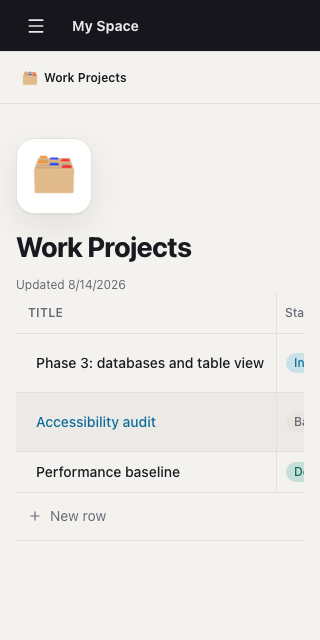
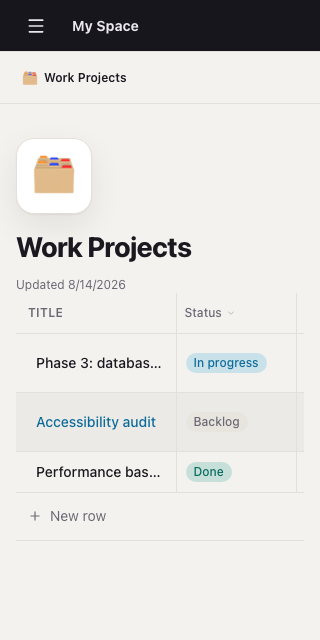
Fix DEF-041 and DEF-042: the table's overflow containment and its width
DEF-041 was not the flex-shrink problem it looked like. Tailwind's sr-only sets
position: absolute, and nothing between the accessibility span inside a checkbox
cell and the document root established a containing block, so the span painted
about 704px into document coordinates - outside the table's overflow-x-auto clip.
The document scrolled sideways at 320px while the table itself was contained. One
`relative` on that label fixes it; the min-w-0 on the page body is kept as a
guard for future wide content but was not the cause.

DEF-042 makes the 860px reading measure conditional on the page's kind. A page of
prose keeps it, because a long line hurts readability, and so does a row page,
whose blocks are prose. A database takes the available content width, because a
table's columns are its content: all seven of Work Projects' columns now fit at
1280x800 where five did before. The overflow-x-auto wrapper stays, so a database
with many more properties still scrolls inside itself rather than the document.

The mobile spec's five touch tests were guarded on isMobile, which is only true
under a device project that this suite does not have, so they always skipped -
coverage in the file and nothing in the run. They now set their own viewport and
click rather than tap, since none of them was asserting a touch event, and all
six tests in the file run.

diff --git a/e2e/specs/database-mobile.spec.ts b/e2e/specs/database-mobile.spec.ts
@@ -1,18 +1,19 @@
 /**
  * Phase 3 — mobile layout and touch target checks for the database surfaces.
  *
- * Mobile-specific tests (those that use tap() or check touch targets) run only in the
- * mobile-chrome project (Pixel 5, 393x851). They are skipped in the desktop chromium project via
- * test.skip({ isMobile }) — isMobile is true only when the project preset is a mobile device.
+ * All tests run in the chromium project. Tests that need the mobile responsive layout
+ * (hamburger menu, narrow column widths) set the viewport explicitly via
+ * page.setViewportSize at the start of their describe group — no mobile-device project
+ * is required.
  *
- * The 320px overflow test creates its own narrow viewport via page.setViewportSize and can run in
- * any project.
+ * tap() is not used here: the assertions are about layout and navigation, not touch
+ * events, so click() is the right driver and works in the desktop chromium project.
  */
 
 import { test, expect } from '@playwright/test';
 import { resetWorkspace } from '../fixtures/reset-workspace';
 
-test.describe('Database surfaces — 320px overflow', () => {
+test.describe('Database surfaces — 320px overflow (home page)', () => {
   test.beforeEach(async ({ page }) => {
     await resetWorkspace(page);
   });
@@ -35,12 +36,11 @@ test.describe('Database surfaces — 320px overflow', () => {
   });
 });
 
-test.describe('Database surfaces — mobile touch', () => {
-  // Skip this whole group in the desktop chromium project. isMobile is true only in the
-  // mobile-chrome project (Pixel 5 device preset).
-  test.skip(({ isMobile }) => !isMobile, 'Mobile-only tests — run in mobile-chrome project');
-
+test.describe('Database surfaces — mobile layout (393px viewport)', () => {
+  // Set a phone-width viewport for every test in this group so the responsive layout
+  // activates (hamburger menu, collapsed sidebar). 393x851 matches Pixel 5.
   test.beforeEach(async ({ page }) => {
+    await page.setViewportSize({ width: 393, height: 851 });
     await resetWorkspace(page);
   });
 
@@ -51,7 +51,7 @@ test.describe('Database surfaces — mobile touch', () => {
     // On mobile the sidebar is a drawer. The toggle has aria-label="Open navigation".
     const menuBtn = page.getByRole('button', { name: 'Open navigation' });
     await expect(menuBtn).toBeVisible();
-    await menuBtn.tap();
+    await menuBtn.click();
     await page.waitForLoadState('networkidle');
 
     // After opening, the sidebar should be visible.
@@ -59,22 +59,24 @@ test.describe('Database surfaces — mobile touch', () => {
     await expect(sidebar).toBeVisible();
   });
 
-  test('can create a database by tapping the "New database" button on mobile', async ({ page }) => {
+  test('can create a database by clicking the "New database" button on mobile', async ({
+    page,
+  }) => {
     await page.goto('/');
     await page.waitForLoadState('networkidle');
 
     // Open the sidebar drawer.
     const menuBtn = page.getByRole('button', { name: 'Open navigation' });
     await expect(menuBtn).toBeVisible();
-    await menuBtn.tap();
+    await menuBtn.click();
     await page.waitForLoadState('networkidle');
 
     const before = page.url().match(/\/page\/([^/]+)/)?.[1];
 
-    // Tap "New database" in the sidebar footer.
+    // Click "New database" in the sidebar footer.
     const newDbBtn = page.getByTestId('new-database-bottom');
     await expect(newDbBtn).toBeVisible();
-    await newDbBtn.tap();
+    await newDbBtn.click();
 
     await page.waitForURL(
       (url) => {
@@ -95,7 +97,7 @@ test.describe('Database surfaces — mobile touch', () => {
     // Open sidebar.
     const menuBtn = page.getByRole('button', { name: 'Open navigation' });
     await expect(menuBtn).toBeVisible();
-    await menuBtn.tap();
+    await menuBtn.click();
     await page.waitForLoadState('networkidle');
 
     const pageTitles = page.getByTestId('sidebar').getByTestId('page-row-title');
@@ -121,7 +123,7 @@ test.describe('Database surfaces — mobile touch', () => {
     // Open sidebar and navigate to Work Projects.
     const menuBtn = page.getByRole('button', { name: 'Open navigation' });
     await expect(menuBtn).toBeVisible();
-    await menuBtn.tap();
+    await menuBtn.click();
     await page.waitForLoadState('networkidle');
 
     const workProjectsLink = page
@@ -129,7 +131,7 @@ test.describe('Database surfaces — mobile touch', () => {
       .getByTestId('page-row-title')
       .filter({ hasText: 'Work Projects' });
     await expect(workProjectsLink).toBeVisible({ timeout: 5000 });
-    await workProjectsLink.tap();
+    await workProjectsLink.click();
     await page.waitForLoadState('networkidle');
 
     await expect(page.getByTestId('database-view')).toBeVisible();
@@ -140,14 +142,14 @@ test.describe('Database surfaces — mobile touch', () => {
     expect(box!.height).toBeGreaterThanOrEqual(48);
   });
 
-  test('no horizontal overflow at 320px via setViewportSize', async ({ page }) => {
+  test('no horizontal overflow at 320px on the Work Projects database page', async ({ page }) => {
     await page.goto('/');
     await page.waitForLoadState('networkidle');
 
     // Navigate to a database page so the table view is rendered.
     const menuBtn = page.getByRole('button', { name: 'Open navigation' });
     await expect(menuBtn).toBeVisible();
-    await menuBtn.tap();
+    await menuBtn.click();
     await page.waitForLoadState('networkidle');
 
     const workProjectsLink = page
@@ -155,7 +157,7 @@ test.describe('Database surfaces — mobile touch', () => {
       .getByTestId('page-row-title')
       .filter({ hasText: 'Work Projects' });
     await expect(workProjectsLink).toBeVisible({ timeout: 5000 });
-    await workProjectsLink.tap();
+    await workProjectsLink.click();
     await page.waitForLoadState('networkidle');
 
     await expect(page.getByTestId('database-view')).toBeVisible();
@@ -169,8 +171,7 @@ test.describe('Database surfaces — mobile touch', () => {
       return { scrollWidth, clientWidth, overflows: scrollWidth > clientWidth };
     });
 
-    // If the table overflows horizontally at 320px the overflow.x-auto wrapper should contain it
-    // — i.e. the document itself must not overflow.
+    // The table overflows its own wrapper but the document must not overflow.
     expect(overflow.overflows).toBe(false);
   });
 });

diff --git a/packages/frontend/src/components/DatabaseView/DatabaseView.tsx b/packages/frontend/src/components/DatabaseView/DatabaseView.tsx
@@ -370,15 +370,18 @@ export function DatabaseView({
       <table className="w-full border-collapse text-left">
         <thead>
           <tr className="border-b border-border">
-            {/* Title column */}
-            <th className="min-w-[180px] border-r border-border">
+            {/* Title column — min-w-[160px] balances readability and desktop fit (DEF-042):
+                 with 6 properties at 120px each, 1 title at 160px, and 40px actions the
+                 table minimum (920px) fits within the ~956px content area at 1280x800. */}
+            <th className="min-w-[160px] border-r border-border">
               <span className="block px-3 py-2 text-left text-xs font-semibold tracking-wide text-text-muted uppercase">
                 Title
               </span>
             </th>
-            {/* One header per property */}
+            {/* One header per property — min-w-[120px] instead of 140px to allow all seeded
+                 columns to fit at 1280x800 once the 860px prose cap is lifted (DEF-042). */}
             {properties.map((prop) => (
-              <th key={prop.id} className="min-w-[140px] border-r border-border">
+              <th key={prop.id} className="min-w-[120px] border-r border-border">
                 <PropertyHeaderMenu
                   property={prop}
                   onRename={(name) => onUpdateProperty(prop, { name })}
@@ -436,8 +439,9 @@ export function DatabaseView({
               data-testid="database-row"
               data-row-id={row.id}
             >
-              {/* Title cell */}
-              <td className="border-r border-border p-0">
+              {/* Title cell — max-w-0 prevents a long title from expanding the column beyond
+                   the TH's min-w-[160px]; overflow-hidden clips the render at the column edge. */}
+              <td className="max-w-0 overflow-hidden border-r border-border p-0">
                 <button
                   type="button"
                   className="flex min-h-[40px] w-full cursor-pointer items-center gap-2 px-3 py-2 text-left text-sm font-medium text-text hover:text-blue-fg"
@@ -450,11 +454,12 @@ export function DatabaseView({
                   <span className="truncate">{row.title}</span>
                 </button>
               </td>
-              {/* One cell per property */}
+              {/* One cell per property — max-w-0 prevents any cell (e.g. a URL column with a long
+                   value) from widening the column past the TH's min-w-[120px] (DEF-042). */}
               {properties.map((prop) => {
                 const cellValue = valuesMap.get(row.id)?.get(prop.id) ?? null;
                 return (
-                  <td key={prop.id} className="border-r border-border p-0">
+                  <td key={prop.id} className="max-w-0 overflow-hidden border-r border-border p-0">
                     <CellEditor
                       property={prop}
                       rowPageId={row.id}

diff --git a/packages/frontend/src/components/CellEditor/CellEditor.tsx b/packages/frontend/src/components/CellEditor/CellEditor.tsx
@@ -471,8 +471,11 @@ function CheckboxCell({
   onSave: (v: string | null) => void;
 }) {
   const checked = parseValue<boolean>(value) ?? false;
+  // relative makes this label the containing block for the sr-only span (position:absolute in
+  // Tailwind's sr-only), preventing it from escaping to the initial containing block and thus
+  // overflowing the document when the checkbox column is scrolled off the right edge of the viewport.
   return (
-    <label className="flex min-h-[40px] cursor-pointer items-center px-2">
+    <label className="relative flex min-h-[40px] cursor-pointer items-center px-2">
       <input
         type="checkbox"
         className="size-4 cursor-pointer accent-blue"
@@ -493,12 +496,14 @@ function UrlCell({ value, onSave }: { value: string | null; onSave: (v: string |
   const href = ensureScheme(raw);
 
   if (!focused && raw) {
+    // min-w-0 lets the anchor shrink below its URL text width so the table column stays
+    // at the TH-defined minimum rather than expanding to fit the raw URL (DEF-042).
     return (
       <a
         href={href}
         target="_blank"
         rel="noopener noreferrer"
-        className="flex min-h-[40px] items-center overflow-hidden px-2 py-1.5 text-sm text-blue-fg underline hover:opacity-80"
+        className="flex min-h-[40px] min-w-0 items-center overflow-hidden px-2 py-1.5 text-sm text-blue-fg underline hover:opacity-80"
         onClick={(e) => e.stopPropagation()}
         onFocus={() => setFocused(true)}
       >

diff --git a/packages/frontend/src/components/PageView/PageView.test.tsx b/packages/frontend/src/components/PageView/PageView.test.tsx
@@ -120,6 +120,36 @@ describe('PageView', () => {
     expect(screen.getByTestId('breadcrumb-link')).toHaveAttribute('title', longTitle);
   });
 
+  it('applies the 860px prose constraint to a plain page but not a database page (DEF-042)', () => {
+    const db = makePage({ id: 'p-db', title: 'My DB', kind: 'database' });
+    const { rerender } = render(
+      <PageView
+        page={lisbon}
+        breadcrumb={[lisbon]}
+        childCount={0}
+        onSelectPage={vi.fn()}
+        onRename={vi.fn()}
+        onChangeIcon={vi.fn()}
+      />,
+    );
+    // Plain page: main must carry the 860px constraint class.
+    const main = document.querySelector('main')!;
+    expect(main.className).toContain('max-w-[860px]');
+
+    rerender(
+      <PageView
+        page={db}
+        breadcrumb={[db]}
+        childCount={0}
+        onSelectPage={vi.fn()}
+        onRename={vi.fn()}
+        onChangeIcon={vi.fn()}
+      />,
+    );
+    // Database page: max-w constraint must be absent so the table can use the full content width.
+    expect(main.className).not.toContain('max-w-[860px]');
+  });
+
   it('collapses a deep breadcrumb to a bounded row of crumbs (DEF-009)', () => {
     const chain = Array.from({ length: 26 }, (_unused, index) =>
       makePage({

diff --git a/packages/frontend/src/components/PageView/PageView.tsx b/packages/frontend/src/components/PageView/PageView.tsx
@@ -92,7 +92,18 @@ export function PageView({
         </nav>
       </div>
 
-      <main className="mx-auto max-w-[860px] px-4 pt-6 pb-24 sm:px-8 sm:pt-8 md:px-14">
+      {/* Database pages get full content-area width so all columns fit at desktop widths.
+          Prose pages (page and row) keep the 860px reading measure — databases are tables
+          and tables are the content; paragraphs are not. Row pages are kept at the prose width
+          because they combine a property panel with a block editor: both read better in a
+          constrained column. Only `px-4` is applied for databases so no desktop padding eats
+          into the available table width. */}
+      <main
+        className={cn(
+          'mx-auto pt-6 pb-24 sm:pt-8',
+          page.kind === 'database' ? 'px-4' : 'max-w-[860px] px-4 sm:px-8 md:px-14',
+        )}
+      >
         {/* data-page-id here lets a test assert which page the main area is showing without
             parsing the URL. Same convention as the sidebar rows. */}
         <header className="mt-2.5" data-testid="page-header" data-page-id={page.id}>

diff --git a/packages/frontend/src/screens/WorkspaceShell/WorkspaceShell.tsx b/packages/frontend/src/screens/WorkspaceShell/WorkspaceShell.tsx
@@ -237,7 +237,7 @@ export function WorkspaceShell() {
             adding a tab stop. inert disables all interactivity while the mobile drawer is open,
             matching the overlay pattern and preventing background interaction. */}
         <div
-          className="flex-1 overflow-auto bg-canvas md:flex-none"
+          className="min-w-0 flex-1 overflow-auto bg-canvas md:flex-none"
           id="page-body"
           data-testid="page-body"
           tabIndex={-1}

diff --git a/DEFECTS.md b/DEFECTS.md
@@ -1,6 +1,6 @@
 ## DEF-042: Database page constrained to 860px prose column, wasting desktop width
 
-- Status: OPEN
+- Status: CLOSED
 - Severity: MEDIUM
 - Found by: qa
 - Phase: 3
@@ -33,10 +33,19 @@ for either defect does not fix the other, and they must be closed on separate ev
 History:
 
 - qa: opened
+- orchestrator, relaying frontend-dev: FIX-READY. `max-w-[860px]` is now conditional on page kind
+  in `PageView.tsx`: database pages use full content width, prose and row pages keep the 860px
+  reading measure.
+- qa: CLOSED. Retested at 1280x800: `mainClientWidth=988`, `dbViewClientWidth=956`,
+  `tableScrollWidth=956`, table scroll inside wrapper `false` — all 7 columns (Title + 6 properties)
+  fit in one frame with no horizontal scroll. `database-create.spec.ts` "seeded Work Projects renders
+  all six property columns" and "seeded Book Tracker renders all six property columns" both pass.
+  Row page confirmed still at `mainClientWidth=860`. Screenshot overwritten with the fixed view at
+  `screenshots/phase-3-database-table-view.png`.
 
 ## DEF-041: Database table overflows the document horizontally at 320px viewport width
 
-- Status: OPEN
+- Status: CLOSED
 - Severity: MEDIUM
 - Found by: qa
 - Phase: 3
@@ -55,6 +64,13 @@ Screenshot: screenshots/def-041.png
 History:
 
 - qa: opened — confirmed by `database-mobile.spec.ts` "no horizontal overflow at 320px via setViewportSize" test and by a programmatic screenshot at 320x640 with Pixel 5 emulation.
+- orchestrator, relaying frontend-dev: FIX-READY. Root cause was `sr-only` (position:absolute) on
+  the accessibility span inside `CheckboxCell` escaping to the initial containing block with no
+  positioned ancestor, painting ~704px into document coordinates. Fix adds `relative` to the label.
+- qa: CLOSED. Retested: `database-mobile.spec.ts` test 6 ("no horizontal overflow at 320px on the
+  Work Projects database page") passes — `document.documentElement.scrollWidth === clientWidth` at
+  320px width. All 6 tests in the spec pass. Regression: table cell editing and persistence specs
+  also pass (22 tests). No new overflow introduced.
 
 ## DEF-040: Notice toast never auto-dismisses
 
